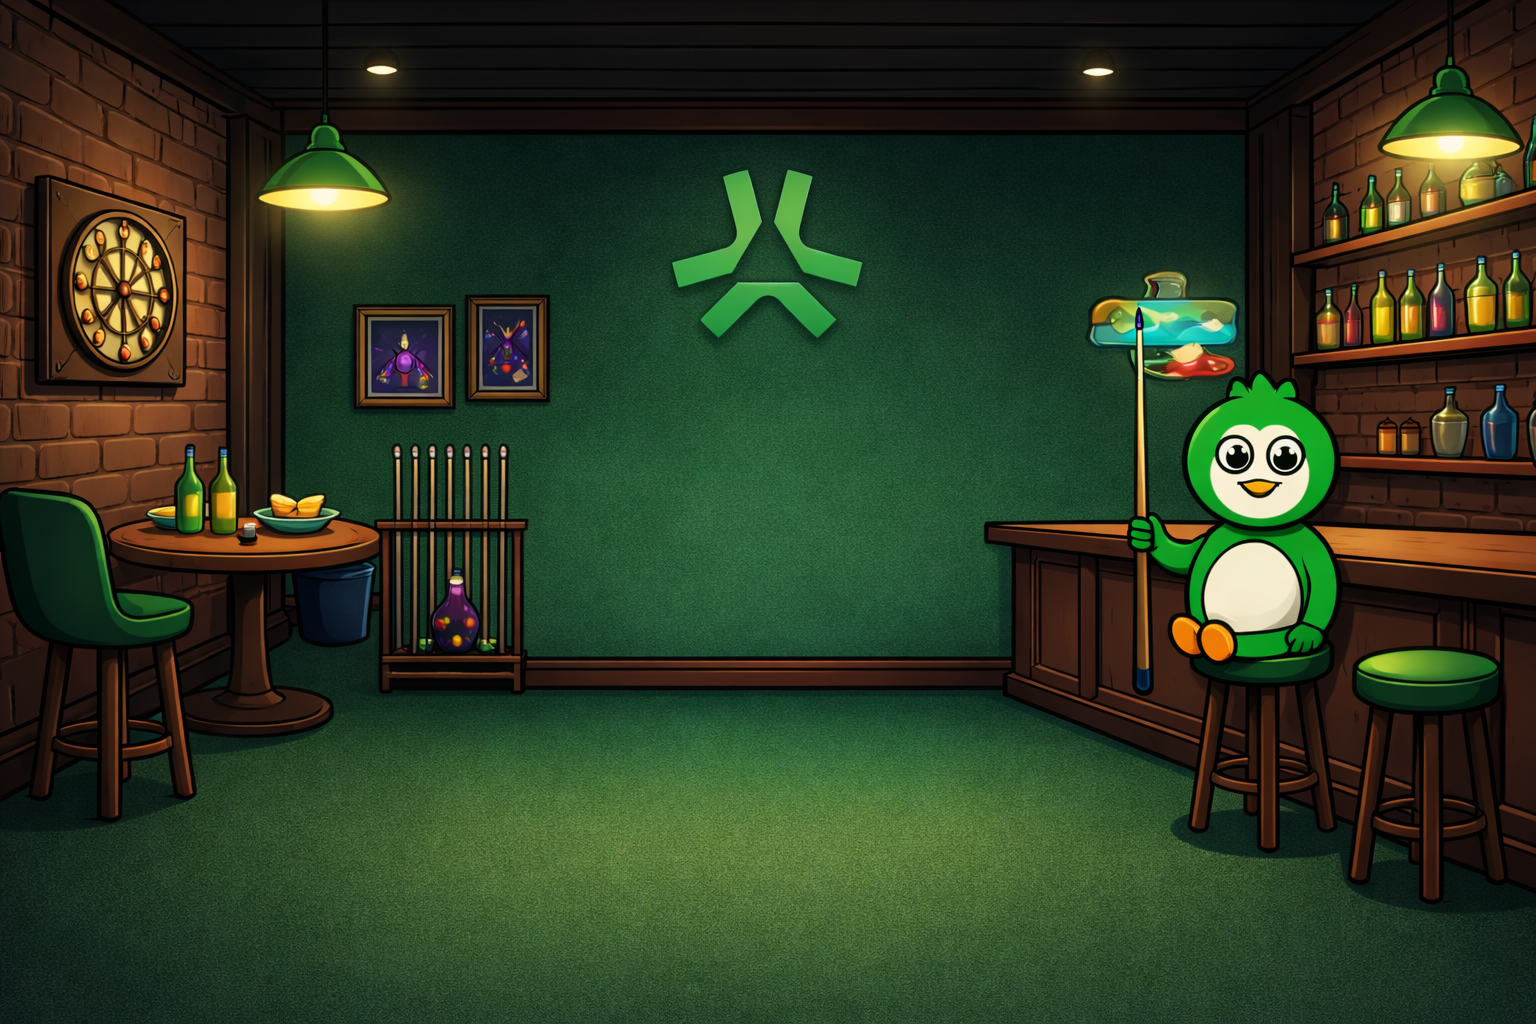
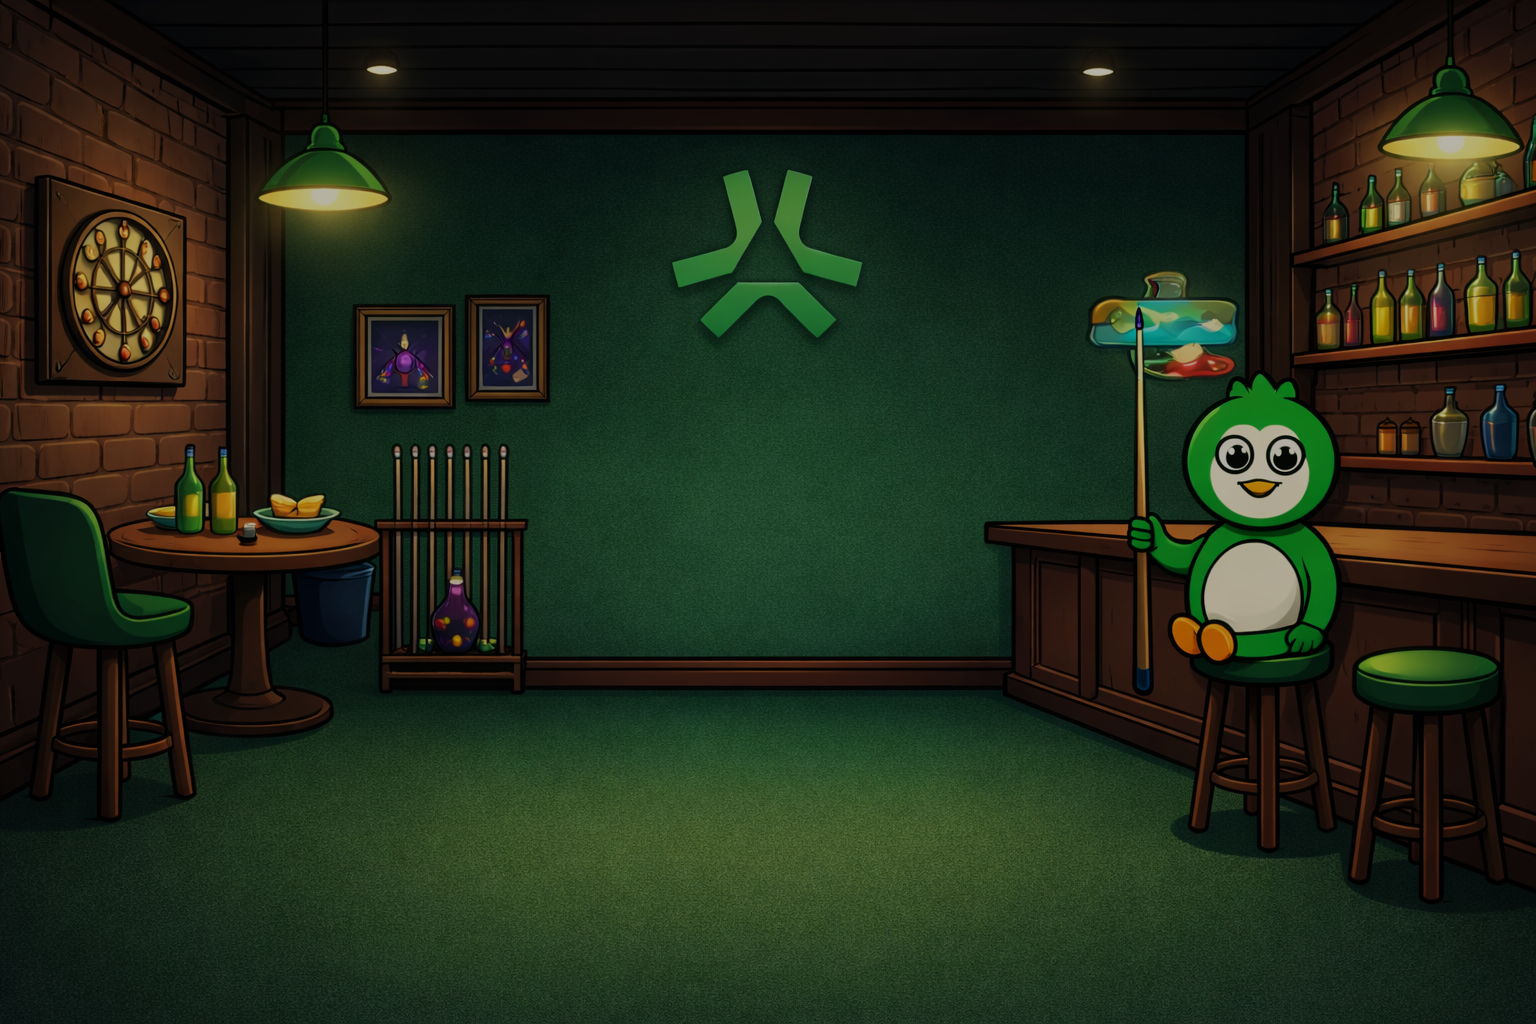
feat: sync cue stick, aim guide, sounds and timer for both players in multiplayer

diff --git a/js/game.js b/js/game.js
@@ -49,6 +49,7 @@ let balls,cue,moving,aiming,angle,pwr,charging,cs,cur,p1t,p2t,p1T,p2T,typed,anyP
 let mouseX = 0, mouseY = 0;
 let _myLastShot = true; // true = local shot; false = opponent's shot (no local physics)
 let _remoteTargets = null; // Map<id, {x,y,out}> — interpolation targets set by incoming frames
+let _lastSoundWs = 0; // throttle: timestamp of last sound WS message sent
 const _LERP = 0.65; // lerp factor per frame — higher value converges faster (~10fps source)
 let firstContactId = null;    // id of the first ball the cue touched this shot (null = none yet)
 let _typedAtShotStart = false; // snapshot of `typed` taken when the shot fires — types can be
@@ -231,7 +232,7 @@ function phys() {
       if(!atMidX && !nearTL && !nearTR && b.y-R < WT){b.y=WT+R; b.vy*=-.82; hitRail=true;}
       if(!atMidX && !nearBL && !nearBR && b.y+R > WB){b.y=WB-R; b.vy*=-.82; hitRail=true;}
 
-      if(hitRail){const spd=Math.sqrt(b.vx*b.vx+b.vy*b.vy); if(spd>1.5)playRailHit();}
+      if(hitRail){const spd=Math.sqrt(b.vx*b.vx+b.vy*b.vy); if(spd>1.5){playRailHit();if(typeof gameMode!=='undefined'&&gameMode==='multiplayer'&&typeof _wsSend==='function'&&currentGameId){const _n=Date.now();if(_n-_lastSoundWs>80){_lastSoundWs=_n;_wsSend({type:'sound',gameId:currentGameId,sound:'rail'});}}}}
 
       // Deflexión en bocas de todas las troneras
       const corners=[
@@ -278,7 +279,7 @@ function phys() {
         a.vx-=dv*nx;a.vy-=dv*ny;b.vx+=dv*nx;b.vy+=dv*ny;
         // Collision sound based on impact speed
         const impactSpd=Math.abs(dv);
-        if(impactSpd>0.8) playCollision(Math.min(1,impactSpd/MAXP));
+        if(impactSpd>0.8){const _cs=Math.min(1,impactSpd/MAXP);playCollision(_cs);if(typeof gameMode!=='undefined'&&gameMode==='multiplayer'&&typeof _wsSend==='function'&&currentGameId){const _n=Date.now();if(_n-_lastSoundWs>80){_lastSoundWs=_n;_wsSend({type:'sound',gameId:currentGameId,sound:'collision',param:_cs});}}}
         spawnHitParticles((a.x+b.x)/2,(a.y+b.y)/2);
       }
       // Apply spin to cue ball on first collision (topspin/draw affects post-collision direction)
@@ -309,7 +310,7 @@ function phys() {
 
 function pocketed(b, pi){
   anyP=true;
-  playPocket();
+  playPocket();if(typeof gameMode!=='undefined'&&gameMode==='multiplayer'&&typeof _wsSend==='function'&&currentGameId)_wsSend({type:'sound',gameId:currentGameId,sound:'pocket'});
   const ballColor=b.id===0?'#ffffff':(BD[b.id]?BD[b.id].c:'#ffdd55');
   spawnPocketParticles(PKT[pi].x,PKT[pi].y,ballColor);
   if(b.id===0){cueP=true;toast('⚠ FOUL — Scratch!',1);return;}
@@ -654,6 +655,55 @@ function cueScreenPos(){
 
 function drawCue(){
   ox.clearRect(0,0,OC.width,OC.height);
+
+  // ── Opponent's cue and aim guide (visible while they are aiming) ─────────
+  const _isMyTurn = typeof gameMode==='undefined'||gameMode!=='multiplayer'||cur===myPlayerNum;
+  if(typeof _oppCueActive!=='undefined'&&_oppCueActive&&!_isMyTurn&&running&&!moving&&cue&&!cue.out){
+    const pos=cueScreenPos();
+    const cx2=pos.x,cy2=pos.y;
+    const ballR=R*pos.sx, stickLen=148*pos.sx, pull=26*pos.sx;
+    const gdx=Math.cos(_oppCueAngle),gdy=Math.sin(_oppCueAngle);
+    // Guide line — find first impact
+    let tHit=Infinity;
+    for(const b of balls){
+      if(b===cue||b.out)continue;
+      const bx=b.x-cue.x,by=b.y-cue.y;
+      const tCA=bx*gdx+by*gdy;
+      if(tCA<R)continue;
+      const perpSq=bx*bx+by*by-tCA*tCA,D2=(2*R)*(2*R);
+      if(perpSq>D2)continue;
+      const tC=tCA-Math.sqrt(D2-perpSq);
+      if(tC>0&&tC<tHit)tHit=tC;
+    }
+    if(tHit===Infinity){
+      const _WL=37+R,_WR=W-37-R,_WT=75+R,_WB=H-55-R,ts=[];
+      if(gdx>1e-9)ts.push((_WR-cue.x)/gdx);if(gdx<-1e-9)ts.push((_WL-cue.x)/gdx);
+      if(gdy>1e-9)ts.push((_WB-cue.y)/gdy);if(gdy<-1e-9)ts.push((_WT-cue.y)/gdy);
+      for(const t of ts)if(t>0&&t<tHit)tHit=t;
+    }
+    const rectL=cx2-cue.x*pos.sx,rectT=cy2-cue.y*pos.sy;
+    const hitSX=rectL+(cue.x+gdx*tHit)*pos.sx,hitSY=rectT+(cue.y+gdy*tHit)*pos.sy;
+    ox.save();
+    ox.strokeStyle='rgba(0,201,81,.15)';ox.lineWidth=1;ox.setLineDash([7,9]);
+    ox.beginPath();ox.moveTo(cx2,cy2);ox.lineTo(hitSX,hitSY);ox.stroke();ox.setLineDash([]);
+    ox.globalAlpha=.2;ox.beginPath();ox.arc(hitSX,hitSY,ballR,0,Math.PI*2);
+    ox.strokeStyle='#00C951';ox.lineWidth=1.5;ox.stroke();
+    ox.restore();
+    // Cue stick
+    const osx=cx2-Math.cos(_oppCueAngle)*(pull+ballR),osy=cy2-Math.sin(_oppCueAngle)*(pull+ballR);
+    const oex=osx-Math.cos(_oppCueAngle)*stickLen,oey=osy-Math.sin(_oppCueAngle)*stickLen;
+    const sg=ox.createLinearGradient(osx,osy,oex,oey);
+    sg.addColorStop(0,'#f0e090');sg.addColorStop(.15,'#c89840');sg.addColorStop(1,'#3a1a04');
+    ox.save();
+    ox.strokeStyle=sg;ox.lineWidth=6*pos.sx;ox.lineCap='round';
+    ox.beginPath();ox.moveTo(osx,osy);ox.lineTo(oex,oey);ox.stroke();
+    ox.strokeStyle='rgba(240,240,220,.7)';ox.lineWidth=2.5*pos.sx;
+    ox.beginPath();ox.moveTo(osx,osy);ox.lineTo(osx-Math.cos(_oppCueAngle)*7*pos.sx,osy-Math.sin(_oppCueAngle)*7*pos.sy);ox.stroke();
+    ox.strokeStyle='#3366dd';ox.lineWidth=4*pos.sx;
+    ox.beginPath();ox.moveTo(osx,osy);ox.lineTo(osx-Math.cos(_oppCueAngle)*4*pos.sx,osy-Math.sin(_oppCueAngle)*4*pos.sy);ox.stroke();
+    ox.restore();
+  }
+
   if(!aiming||!running||moving||!cue||cue.out)return;
 
   const pos = cueScreenPos();

diff --git a/js/ui.js b/js/ui.js
@@ -12,6 +12,21 @@ let _mmCdInterval   = null;
 let _receivedGameOver = false; // guard to avoid echo when we receive gameover from WS
 let _matchReady     = false;   // true once the pre-match countdown finishes
 let _matchCdInterval = null;
+let _oppCueAngle = 0;          // opponent's current aim angle (radians)
+let _oppCueActive = false;     // true while opponent is aiming
+let _lastCueUpdateWs = 0;      // throttle timestamp for cueUpdate sends
+
+// ═══════════════════════════
+// AUDIO CONTEXT UNLOCK
+// ═══════════════════════════
+function _resumeAudioCtx() {
+  if (typeof audioCtx !== 'undefined' && audioCtx && audioCtx.state === 'suspended') {
+    audioCtx.resume();
+  }
+}
+['click', 'keydown', 'touchstart'].forEach(ev =>
+  document.addEventListener(ev, _resumeAudioCtx, { once: false, passive: true })
+);
 
 // ═══════════════════════════
 // WEBSOCKET SYNC
@@ -60,8 +75,13 @@ function _wsOnMessage(msg) {
     // P1 restarted mid-session — rack is deterministic so just reset local state
     initState();
   }
+  else if (msg.type === 'cueUpdate') {
+    _oppCueAngle = msg.angle;
+    _oppCueActive = true;
+  }
   else if (msg.type === 'shoot') {
-    // Opponent fired — no local physics; animation comes via 'frame' messages
+    // Opponent fired — cue disappears, no local physics; animation comes via 'frame' messages
+    _oppCueActive = false;
     console.log('[SYNC] received shoot notification from opponent');
     if (G) G.applyRemoteShoot();
   }
@@ -74,8 +94,20 @@ function _wsOnMessage(msg) {
     console.log('[SYNC] received result from server — cur='+msg.cur+' balls='+(msg.balls&&msg.balls.length));
     if (G) G.applyResult(msg); else console.warn('[SYNC] PengPoolGame not ready!');
   }
+  else if (msg.type === 'sound') {
+    _resumeAudioCtx();
+    if (msg.sound === 'collision') playCollision(msg.param != null ? msg.param : 1);
+    else if (msg.sound === 'rail') playRailHit();
+    else if (msg.sound === 'pocket') playPocket();
+  }
+  else if (msg.type === 'timerTick') {
+    // Sync the active player's countdown on this client
+    _timerSec = msg.sec;
+    _updateTimerDisplay();
+  }
   else if (msg.type === 'timeout') {
     // Active player's turn timer expired — sync the turn change locally
+    _oppCueActive = false;
     toast('Opponent ran out of time!', 0);
     switchTurn();
   }
@@ -205,7 +237,7 @@ window._wsOnFrame = function(balls) {
     payload.push({ id: b.id, x: b.x, y: b.y, out: b.out });
   }
   if (payload.length === 0) return;
-  _ws.send(JSON.stringify({ type: 'frame', balls: payload }));
+  _wsSend({ type: 'frame', gameId: currentGameId, balls: payload });
 };
 
 function shortenAddr(a) {
@@ -289,10 +321,12 @@ function resetTurnTimer() {
   if (!running || document.getElementById('game').classList.contains('hidden')) return;
   _timerSec = TURN_TIME;
   _updateTimerDisplay();
+  if (gameMode === 'multiplayer') _wsSend({ type: 'timerTick', gameId: currentGameId, sec: _timerSec });
   _timerInterval = setInterval(() => {
     if (!running || document.getElementById('game').classList.contains('hidden')) { stopTurnTimer(); return; }
     _timerSec--;
     _updateTimerDisplay();
+    if (gameMode === 'multiplayer') _wsSend({ type: 'timerTick', gameId: currentGameId, sec: _timerSec });
     if (_timerSec <= 0) {
       stopTurnTimer();
       toast('Time up — turn passes!', 1);
@@ -334,6 +368,10 @@ function renderUI(){
   const l2=document.getElementById('p2type-lbl');
   if(l1&&p1T){l1.textContent='TYPE: '+p1T.toUpperCase();l1.style.color=p1T==='solid'?'#e8b800':'#4488ff';}
   if(l2&&p2T){l2.textContent='TYPE: '+p2T.toUpperCase();l2.style.color=p2T==='solid'?'#e8b800':'#4488ff';}
+  const pt1=document.getElementById('pt1');
+  const pt2=document.getElementById('pt2');
+  if(pt1)pt1.textContent=p1T?p1T.toUpperCase():'—';
+  if(pt2)pt2.textContent=p2T?p2T.toUpperCase():'—';
   const tb=document.getElementById('tbt');tb.innerHTML='';
   balls.filter(b=>b.id!==0&&!b.out).forEach(b=>{
     const d=document.createElement('div');
@@ -398,6 +436,10 @@ C.addEventListener('mousemove',e=>{
       angle=Math.atan2(my-cue.y,mx-cue.x);
       document.getElementById('angdisp').textContent=Math.round((angle*180/Math.PI+360)%360)+'°';
       aiming=true;
+      if(gameMode==='multiplayer'&&typeof _wsSend==='function'&&currentGameId){
+        const _n=Date.now();
+        if(_n-_lastCueUpdateWs>32){_lastCueUpdateWs=_n;_wsSend({type:'cueUpdate',gameId:currentGameId,angle,x:cue.x,y:cue.y});}
+      }
     }
   }
 });

diff --git a/server/server.js b/server/server.js
@@ -185,6 +185,30 @@ wss.on("connection", (ws) => {
       _send(other, msg);
     }
 
+    // ── cueUpdate  (active player streams aim angle to opponent) ─────────
+    else if (msg.type === "cueUpdate") {
+      const room = rooms.get(ws._gameId);
+      if (!room) return;
+      const other = ws._playerNum === 1 ? room.p2 : room.p1;
+      _send(other, { type: "cueUpdate", angle: msg.angle, x: msg.x, y: msg.y });
+    }
+
+    // ── sound  (shooter relays collision/rail/pocket sounds to opponent) ──
+    else if (msg.type === "sound") {
+      const room = rooms.get(ws._gameId);
+      if (!room) return;
+      const other = ws._playerNum === 1 ? room.p2 : room.p1;
+      _send(other, { type: "sound", sound: msg.sound, param: msg.param });
+    }
+
+    // ── timerTick  (active player broadcasts remaining seconds each tick) ──
+    else if (msg.type === "timerTick") {
+      const room = rooms.get(ws._gameId);
+      if (!room) return;
+      const other = ws._playerNum === 1 ? room.p2 : room.p1;
+      _send(other, { type: "timerTick", sec: msg.sec });
+    }
+
     // ── timeout  (active player's turn timer expired) ─────────────────────
     else if (msg.type === "timeout") {
       const room = rooms.get(ws._gameId);
@@ -208,6 +232,7 @@ wss.on("connection", (ws) => {
       }
       _settle(ws._gameId, winnerAddr, room);
     }
+
   });
 
   ws.on("close", () => {
